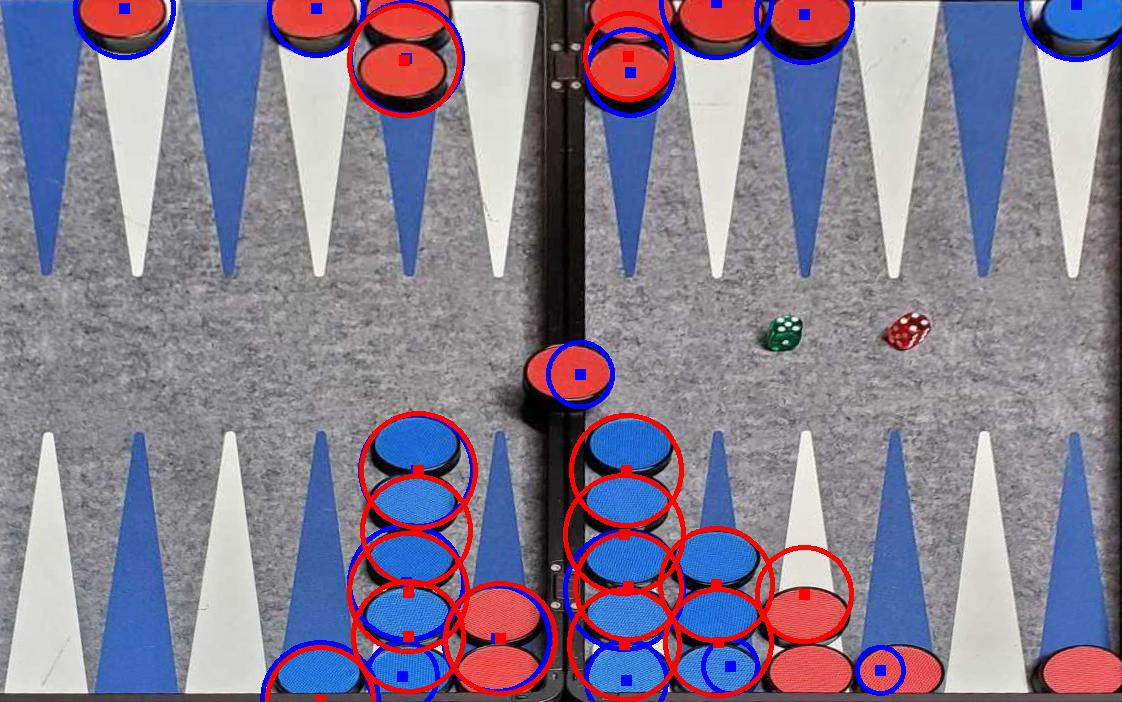
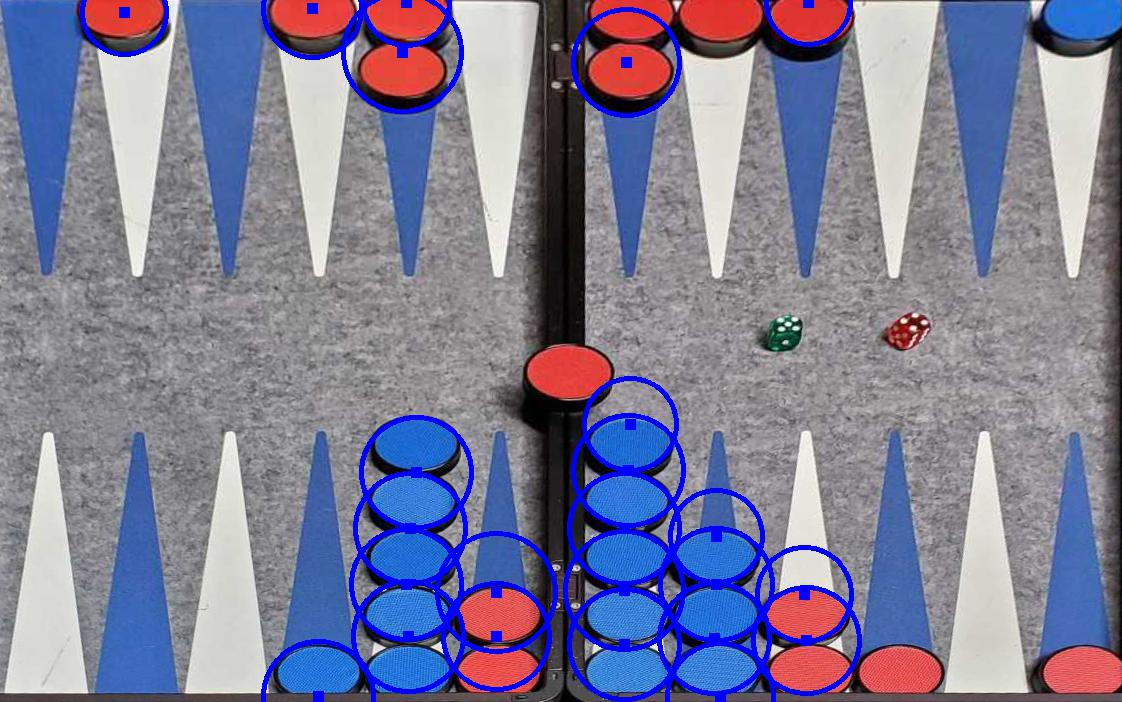
got secondary circle detection working on image 1

diff --git a/warp_and_find_checker.py b/warp_and_find_checker.py
@@ -1,3 +1,9 @@
+"""
+it's perfect on image 1!
+todo:
+   automatic aspect ratio calculation and resizing
+   make canny binarisation less strict -> better results on low-contrast circles
+"""
 
 import argparse
 import os
@@ -121,9 +127,9 @@ for i, gray in enumerate(resizeds):
         print(len(circles[0]), 'circles found')
         circles = np.round(circles[0, :]).astype("int")
         for (x, y, r) in circles:
-            cv2.circle(output, (x, y), r, (0, 0, 255), 4)
-            cv2.rectangle(output, (x - 5, y - 5), (x + 5, y + 5), (0, 0, 255), -1)
-            centres[i].append((x, y))
+            # cv2.circle(output, (x, y), r, (0, 0, 255), 4)
+            # cv2.rectangle(output, (x - 5, y - 5), (x + 5, y + 5), (0, 0, 255), -1)
+            # centres[i].append((x, y))
             radii[i].append(r)
         radii_stds.append(np.std(radii[i]))
         radii[i] = np.median(radii[i])
@@ -131,13 +137,13 @@ for i, gray in enumerate(resizeds):
         print('0 circles found')
     
     TOLERANCE = 10
-    circles2 = cv2.HoughCircles(gray, cv2.HOUGH_GRADIENT, 1, 40, param1=50, param2=20, minRadius=int(round(radii[i]))-TOLERANCE, maxRadius=int(round(radii[i]))+TOLERANCE)
+    circles2 = cv2.HoughCircles(gray, cv2.HOUGH_GRADIENT, 1, 40, param1=50, param2=17, minRadius=int(round(radii[i]))-TOLERANCE, maxRadius=int(round(radii[i]))+TOLERANCE)
     if circles2 is not None:
         print(len(circles2[0]), 'circles found in second round')
         circles2 = np.round(circles2[0, :]).astype("int")
         for (x, y, r) in circles2:
-            cv2.circle(output, (x, y), r, (255, 0, 0), 4)
-            cv2.rectangle(output, (x - 5, y - 5), (x + 5, y + 5), (255, 0, 0), -1)
+            cv2.circle(output, (x, y), r, (0, 0, 255), 4)
+            cv2.rectangle(output, (x - 5, y - 5), (x + 5, y + 5), (0, 0, 255), -1)
             centres[i].append((x, y))
     
     processed.append(output)
